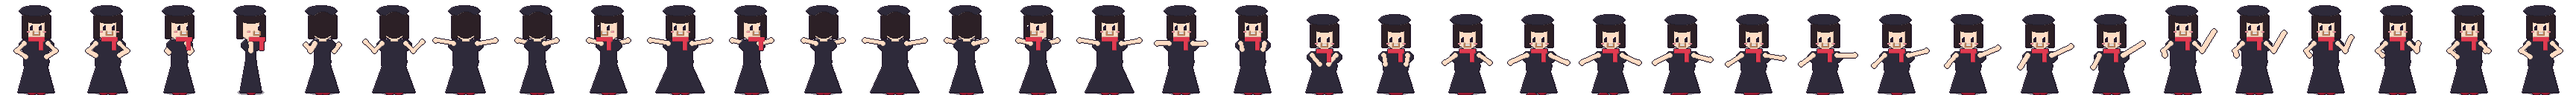
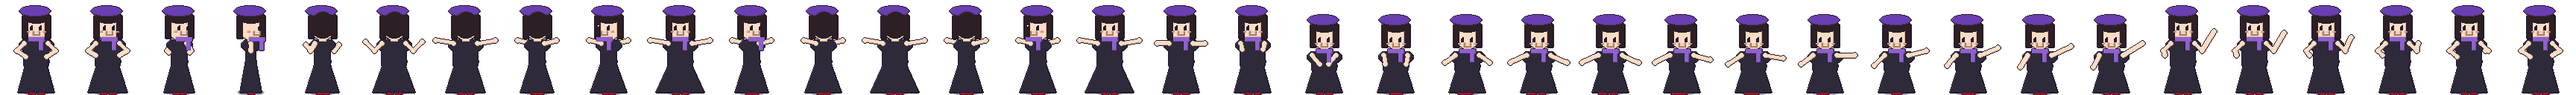
Dance Sisters v65: each Director in her own colours
The three Directors were all black with a red scarf, so Miri and Juliette
looked identical. The beret now takes the sister's dark shade and the
scarf her colour.

Claude-Session: https://claude.ai/code/session_01KjbiH1Gxo3FA48ifQDakKd

diff --git a/dance/sw.js b/dance/sw.js
@@ -1,6 +1,6 @@
 // Dance Sisters service worker: the app shell is cached on install; the pictures under art/ are cached as they are fetched
 // (cache first after that) and app.js fetches every one of them once (saveOffline), so the game plays with no connection. Bump CACHE together with APP_VERSION in app.js.
-const CACHE = 'dance-v64';
+const CACHE = 'dance-v65';
 const SHELL = ['./', 'index.html', 'app.js', 'style.css', 'manifest.webmanifest', 'dancers.json', 'art/font.json', 'art/font.png', 'art/font_w.png', 'icons/icon-192.png', 'icons/icon-512.png', 'icons/apple-touch-icon-180.png'];
 self.addEventListener('install', e => { e.waitUntil(caches.open(CACHE).then(c => Promise.all(SHELL.map(u => c.add(u).catch(() => {})))).then(() => self.skipWaiting())); });
 // on activation, anything the new cache is missing (a shell file whose install fetch failed on a poor connection) is copied

diff --git a/dance/app.js b/dance/app.js
@@ -4,7 +4,7 @@
    decision, 30 Oct 2026: the names are fixed in the game); a level is "<stage> <name>". Save in
    localStorage['dance.save']; nothing is sent anywhere. */
 'use strict';
-const APP_VERSION = '64';
+const APP_VERSION = '65';
 const ART = 'art/'; let ART_V = '';
 const NAMES = ['Lainey', 'Miri', 'Juliette'];   // youngest first
 let SPEC = null;

diff --git a/CLAUDE.md b/CLAUDE.md
@@ -622,7 +622,7 @@ The Merge Beasts engine with **dancers**, at **latin.musicalmagic.uk/dance/** (`
 wording and sprites swapped; same save shape in `localStorage['dance.save']`). **The chain is 36 stages × 3 sisters = 108
 levels (v36: the owner wants twelve characters in every room, so nine rooms × four stages; `sisters7.py`; `load` remaps a save from the 20-stage chain by stage name, `save.chainv` = 2)** (`dance/dancers.json`: stage, sister, stageName, sheet, frames, top, crawl; worlds by stage, four each: Nursery 0–3 (Baby, Tot, **Birthday** — party hat, striped top, a balloon; a bounce, a sway and claps, a twirl — Nursery), Dance school 4–7 (Leotard, Dance school, First tutu, Jazz),
 Ballet theatre 8–11 (En pointe, Swan, **Sugar Plum** — the Nutcracker fairy, lilac tutu dotted in her colour, a wand; hops on pointe, a port de bras, piqué turns — Prima), City stage 12–15 (Street, **Tap** — waistcoat, bowler, black tap shoes; shuffle-hop, soft-shoe sway, pivot and stamp — **Salsa** — ruffles, red heels, hoop earrings; the basic step, hip sway, the cross-body turn — Stage star), World tour 16–19 (World tour, **Bollywood** — orange choli, gold bangles, a flower; shoulder bounces and jumps, wrist circles and the head slide, a spin — Movie star, Royal gala), Academy 20–23 (Teacher, **Examiner** — grey suit, a clipboard; marks, a nod, a hop — **Judge** — sequinned jacket, the "10" paddle — **Graduate** — gown and mortarboard; a jump for joy, hand on heart, a wave; `bg_academy`: a hall with three portraits, a trophy cabinet, a red carpet), **Studio 24–27** (**Rehearsal** — leggings, leg warmers `warmers`, a water bottle; star jumps, stretches, a lunge — Choreographer, **Dance captain** — black tee with her star; counts and jumps, arm sweeps, turning to the line — **Coach** — tracksuit and cap; squats, stretches, claps; `bg_studio`: a mirror wall with the cast reflected, a barre, a whiteboard, a chair, a boombox, tape marks), **Stage door 28–31** (**Understudy** — rehearsal greys, the script; Director, **Leading lady** — feather boa `collar: 'boa'`, long gloves; a kick, the boa sweep, a spin — **Producer** — the suit, a phone; `bg_stagedoor`: backstage bricks, the star door and its sign, a lamp, a costume rail, a flight case, a rope), **Hall of fame 32–35** (Icon, **Statue** — gold from head to toe, `skin_override` / `hairc_override`; a held pose and a bounce, a slow shimmer, a slow turn — **Superstar** — gold fringe and gloves, a boa; a leap, the sweep, a spin — Legend; new hats `partyhat` / `bowler` / `mortar`, props `wand` / `clipboard` / `paddle` / `bottle` / `script` / `phone`; `bg_hall`: spotlights, three framed stars in the sisters' colours, a chandelier, a marble plinth with a gold star, velvet ropes, a red carpet; `scratchpad/dancers/rooms2.py`) — **`load` migrates saves when rooms are split (v35)**: every dancer moves to the room of her stage, a bag that pointed into a later room moves there (clamped inside each room's levels), and the open rooms follow what has been made; stages: Baby, Tot, Nursery, Leotard, Dance school, First tutu,
-Jazz, En pointe, Swan, Prima, Street, Stage star, World tour, Movie star (dark bodice, long gown, flashbulbs), Royal gala (pale gown, tiara, a waltz), Teacher (bun, cardigan, black skirt, cane), **Choreographer** (all black, headset, shoes in her colour: marking the counts / arm cues / a spin to face the cast), **Director** (dark coat, red scarf: the bow from the wings), **Icon** (her colour head to toe, a silver streak: her earliest move perfected — Lainey's toddler jump as a tuck jump, Miri's sway as swan arms, Juliette's wobbly twirl as a clean double pirouette), Legend; `DESC` one line each). **A new game starts with `chainv: 2` (v60)**: the v36 old-chain conversion in `load` ran on every fresh save too (no `chainv`), and it maps a bag at a room's first level by *old* stage name — the Dance school bag went from Leotard Lainey (12) to Dance school Lainey (15), so the three Leotard dancers could never appear (the owner's daughter saw "the game has skipped 3 characters"); `load` also repairs any save whose bag sits above an unmade level of its room by putting the bag back to the lowest unmade level (a legitimately upgraded bag has every level below it made), tested by `scratchpad/dance-skip.js`. **The economy (31 Oct 2026, after the owner's daughters finished the first version in an afternoon)**: a better bag costs `crateUpCost` = 300 × 1.38^L (1.45 until v36; 108 levels) and **must be earned — the dancer three levels above the bag has to have been made by merging first** (`GATE` = 3, the owner's rule on 31 Oct 2026 after one level proved too easy and two had looked like a bug; near the end the gate is the last dancer; `crateGate` / `crateEarned`, `save.seen`; the shop row says "Locked: make … by merging first" and the button reads 🔒 Locked instead of a price), an Invite is `priceOf` = 40 × 1.35^L. **The Spirit of Dance (v46)**: level 108, stage 36, the one level above Legend Juliette — **two Legend Juliettes merge into it** (the owner's ask): a soft cloud with hints of the three sisters' colours (teal left, pink top, purple right, three sparkles in their colours, no face; `scratchpad/dancers/spirit.py`, 40 frames, `art/s37_1.png`, drawn at 48 × 64 and doubled; `sisters7.py` appends it on every rebuild) — **the owner chose this over an energy-nebula version (v48–v50, kept in `spirit_nebula.py`): "go back to this version, it was better"**, `sister: -1` in `dancers.json`, `spirit: true` in `CHAIN`, named "Spirit of / Dance" above the cloud (`lvHTML`), fanfare kicker "✨ THE SPIRIT OF DANCE ✨", `save.spirit` the first time; **it has a level (v47)**: `b.sl` 1–100 (`SPIRIT_MAX`), shown in the middle of the cloud in the dark pixel font (`.sn`), a Spirit absorbs a Legend Juliette (+1, dragged either way) or another Spirit (the levels add; `canMerge`), it is moved like any dancer, its Dancepedia line is "The spirit grows." (`DESC[36]`), the cloud is semi-transparent (`.beast.spirit .spr` opacity .8) and **grows at 10 / 30 / 50 / 75** (`spiritScale` .65 → .8 → .95 → 1.1 → 1.25, `--ss`), earns its level × a dancer's rate (`earns`); **level 100 wins the game** (`won()`, once, `save.won`: the owner's words — "Congratulations … The girls have gone beyond being physical dancers and have become the universal spirit of dance itself …" — with RESTART ON HARD MODE and Keep playing; the Hall offers it again once won). **Hard mode** (`hardMode`, `save.hard` counts restarts): everything is undone — dancers, coins, bags, upgrades, Dancepedia, stars, encores — and `RATE` is halved per hard restart; a `#hardTag` after the rate in the top bar; it lives in the Hall of fame (`stages: [32, 36]`); bags never bring it (`canUp` stops at `CHAIN.length - 2`); two Spirits cannot merge (the Hall opens) and a Spirit or a Legend Juliette can be retired (`isFinal` = `LEGEND` or `SPIRIT`, both set in `buildChain`). **The ending** (`discover` on `LEGEND` = Legend Juliette, not the last level → `finale`, once, `save.finished`; the trio is `CHAIN.slice(LEGEND - 2, LEGEND + 1)`): a curtain-call overlay (`.finale`: red curtains part, the three Legends dancing, a pixel trophy `art/trophy.png`, confetti, "You did it!"), then the **Hall of Fame** (`hall`, the 🏆 button in the top bar, shown once finished): two Spirits cannot merge (a merge of two opens the Hall instead) — **Retire a Legend** removes a final-level dancer from the stage for a ⭐ (`save.stars`) and two hours' income. **Encore was removed in v61** (the owner: the Spirit ending replaced it); `RATE` still honours `save.encore` for the few saves that used it. **Start the game again (v62, v64)**: a link at the bottom of the Dancepedia (always reachable — the owner looked for it there) and of the Hall of Fame (`NEW_GAME_LINK`, `newGame()`) wipes the save to a fresh one after two confirms (no bonus, no penalty; `save.hard` is dropped too). The Home button (the house in the top bar linking to the games list) was dropped in v62 at the owner's request. **Costumes and moves were audited against real dance conventions (v45, 31 Oct 2026; `scratchpad/dancers/audit_current.md` + `research_ballet.md` / `research_styles.md` / `research_roles.md`: the RAD uniform guide, Odette / Sugar Plum costume guides, tap / jazz / salsa / flamenco / fan dance / Bollywood conventions)** and the mismatches fixed in `sisters7.py`: pink tights and shoes in every ballet stage (never white); En pointe is class wear (leotard, little skirt, pink pointe shoes with `ribbons`, bun — no tutu); Swan, Sugar Plum and Prima wear the classical `tutu` (the romantic `tutu_big` is Giselle), Odette all white with a tiara and only a pale sash in her colour, the Sugar Plum Fairy and the Prima a tiara too (`prop` may be a tuple: two props at once); the hats were the wrong way round — the top hat is tap / vaudeville, the bowler is Fosse jazz — so **Jazz** is a class (no hat, tan jazz shoes, hair back) and **Tap** has the top hat, a black waistcoat (`pattern: 'vest'`), a red bow tie (`collar: 'bowtie'`) and black tap shoes; **Salsa** is a plain fringed dress with gold heels and hoop `earrings` (dots + tiers are the flamenco dress, which went to World tour Lainey with the rose in a bun and red heels); World tour Miri dances barefoot (`shoes: 'bare'`), Juliette's fan dance is Chinese (long dress, water sleeves `sleeves: 'wide'`, gold sash, flower in an updo); **Bollywood** has real `gloves: 'bangles'` (gold bands on bare arms) and jhumka earrings; the **Teacher** wears class wear (fitted top, black wrap skirt, pink tights, flats — the cane and white collar were a schoolmistress); the **Choreographer** has her hood down and no headset (the stage manager's); the **Leading lady** takes the curtain call with a bouquet and the boa stays the Superstar's. Moves changed: Salsa Lainey never leaves the floor (hip bounce on the pause, a kick shine); Tap Miri does flap-flap-ball-change travelling, Juliette a shuffle-ball-change into a paddle turn and a stamp; flamenco Lainey is grounded (palmas and a floreo in place of the jump); Royal gala Lainey rises and falls in the waltz instead of jumping; Choreographer Lainey marks the counts small then one full jump; Examiner Lainey rises tall, nods and ticks (examiners never show approval); Leading lady Miri bows with the bouquet and blows a kiss; Statue Lainey holds, then one slow rise onto demi-pointe; Birthday Juliette twirls and bobs (the jump was Lainey's). Pointe-shoe `ribbons` are crossed round the ankle along the shin (from the knee or hip to the foot, so a raised leg keeps them) in a darker pink than the tights (v52: they used to stand straight up from the foot in the tights' own pink, so floated off a lifted leg and vanished). **Costume audit v53 (the owner: "fix all")**: ballet and pointe shoes are `pink` (deeper than the `pinklight` tights, which had hidden them), Tap shoes `'tap'` (black with a silver plate and shine), the Understudy's flats in her colour, the Swan's sash in her full colour; `warmers` run along the shin like the ribbons (`dress_foot`); from behind the star, earrings, streak, rose, flower and bow stay (mirrored); a real kick under a long / gown / dress / ruffle skirt — the foot above `base − ll × .5` and clear of the hem by 3 (v56: the first rule, `base − ll × .45` alone, put a toddler's black shoe on her dress in every Nursery jump, since the dress reaches below her feet) — is redrawn on top so the skirt parts round it (`legs_`); the coin belt narrows with the turn (`SW`); a prop in the far hand is drawn behind the body (`PROP_HAND`, `draw_prop` at module level, called after the far arm and again after the head for the near hand); hair lags the rise and fall (`hlag`, the hanging parts of straight / pony / curly / wavy / bunches) and the fringe, hair and balloon string sway with travel and lean (`sway`), both set per frame in `sisters7.py` like `tdy`. **Animation audit v54 (the owner: skirts "sit 2-dimensionally on top", clothes "move independently"; "fix all")**: the skirt's waist stays on the hips and only the hem lags (`hb` = `tdy` on the bottom points; the old whole-skirt lag made the skirt slide over the bodice); a `lean` tilts the spine from the hips (`la_`, the shoulders drop by `th(1 − cos)`) and tips the head (`s.tilt`: one eye higher than the other, the head offset along the tilt); a `bend` folds forward (`s.bow`: the head comes down in front of the chest by `bend × 1.35`, the features sit lower on the face); a tutu is a tilting disc (`disc`, `tilt` from a leg raised above `hip + ll × .3`); a raised knee lifts the hem of a short skirt or dress on its side (`lift_l / lift_r`); a turn flares the hem (`spin` = 14 × |Δturn| per frame from `sisters7.py`, `FL`), including the fringe and the ruffle tiers; dots and stripes shear with the torso (`shear(yy)`); a soft ground shadow under every figure, smaller and fainter with `lift` (`ground`, composited after the outline pass; `fig5` passes scale 2); held props continue the forearm's line (`draw_prop(…, d)`, `arm_dir` from `draw_arm`: wand, paddle, mic, fan, bouquet, bottle, clapper, phone turn with the arm; the balloon, clipboard and script keep their own orientation). **Frame-by-frame review (v57–v59, after the owner asked "why was that not picked up? there must be many more")**: `scratchpad/dancers/grids2/` holds a grid of every frame of every stage (made by the script in the session; 37 images), four reviewer agents went through every frame twice against a checklist (`review_a–d.md`, `review2_a–d.md`), and the root causes were fixed in `fig3.py` / `sisters7.py`: a small dancer's `sink` is capped at `ll × .55` and knees never go below the floor; short skirts and dresses stop above the shoes (`base − 3`); a hat's headroom caps the jump (`HEADROOM`, `room`); knees stay inside a long skirt; the hem lift from a knee is at most 3 and the flare at most 4; the loop seam (turn 2 → 0) is not a spin; a hand raised above the shoulders is drawn after the head (not lost in the hair), except from behind; near-hand props go behind the head in a bow, a turn, or when held in front of the face; a bowed head stops at the chest; props that would leave the picture are foreshortened along the arm (`k` in `draw_prop`); the blush and the eyes stay on the face in profile; the waistcoat has a back and the bow tie is not drawn on the nape; `cap=` is a cap over the sister's own hair (the Coach gave everyone Miri's curls); `KICK` reaches hip height; a baby's arms stay on the floor until she is nearly sitting; the Jazz skirt is `D(i)` (black tights on a black skirt vanished), the Director's shoes `red2` and the Producer's `grey` (black on a black hem). Known and accepted: hands meeting above the head read as a bar; a split leap's feet at the gown's hem corners; arms thin to nothing in a pure profile; a raised leg behind a tutu in a penché shows only its shoe; a pose that reaches the picture's side edge touches it. **Review again after any change to the figure code: rebuild, regenerate the grids, and look at every frame of the stages touched — a few contact sheets are not a check.** **The sisters' names are fixed in `NAMES` in `dance/app.js`** (youngest first) — the
+Jazz, En pointe, Swan, Prima, Street, Stage star, World tour, Movie star (dark bodice, long gown, flashbulbs), Royal gala (pale gown, tiara, a waltz), Teacher (bun, cardigan, black skirt, cane), **Choreographer** (all black, headset, shoes in her colour: marking the counts / arm cues / a spin to face the cast), **Director** (black coat, the beret in her dark shade and the scarf in her colour — `hatc` / `patc` on the figure, v65, after the owner found Miri and Juliette identical in all black with a red scarf: the bow from the wings), **Icon** (her colour head to toe, a silver streak: her earliest move perfected — Lainey's toddler jump as a tuck jump, Miri's sway as swan arms, Juliette's wobbly twirl as a clean double pirouette), Legend; `DESC` one line each). **A new game starts with `chainv: 2` (v60)**: the v36 old-chain conversion in `load` ran on every fresh save too (no `chainv`), and it maps a bag at a room's first level by *old* stage name — the Dance school bag went from Leotard Lainey (12) to Dance school Lainey (15), so the three Leotard dancers could never appear (the owner's daughter saw "the game has skipped 3 characters"); `load` also repairs any save whose bag sits above an unmade level of its room by putting the bag back to the lowest unmade level (a legitimately upgraded bag has every level below it made), tested by `scratchpad/dance-skip.js`. **The economy (31 Oct 2026, after the owner's daughters finished the first version in an afternoon)**: a better bag costs `crateUpCost` = 300 × 1.38^L (1.45 until v36; 108 levels) and **must be earned — the dancer three levels above the bag has to have been made by merging first** (`GATE` = 3, the owner's rule on 31 Oct 2026 after one level proved too easy and two had looked like a bug; near the end the gate is the last dancer; `crateGate` / `crateEarned`, `save.seen`; the shop row says "Locked: make … by merging first" and the button reads 🔒 Locked instead of a price), an Invite is `priceOf` = 40 × 1.35^L. **The Spirit of Dance (v46)**: level 108, stage 36, the one level above Legend Juliette — **two Legend Juliettes merge into it** (the owner's ask): a soft cloud with hints of the three sisters' colours (teal left, pink top, purple right, three sparkles in their colours, no face; `scratchpad/dancers/spirit.py`, 40 frames, `art/s37_1.png`, drawn at 48 × 64 and doubled; `sisters7.py` appends it on every rebuild) — **the owner chose this over an energy-nebula version (v48–v50, kept in `spirit_nebula.py`): "go back to this version, it was better"**, `sister: -1` in `dancers.json`, `spirit: true` in `CHAIN`, named "Spirit of / Dance" above the cloud (`lvHTML`), fanfare kicker "✨ THE SPIRIT OF DANCE ✨", `save.spirit` the first time; **it has a level (v47)**: `b.sl` 1–100 (`SPIRIT_MAX`), shown in the middle of the cloud in the dark pixel font (`.sn`), a Spirit absorbs a Legend Juliette (+1, dragged either way) or another Spirit (the levels add; `canMerge`), it is moved like any dancer, its Dancepedia line is "The spirit grows." (`DESC[36]`), the cloud is semi-transparent (`.beast.spirit .spr` opacity .8) and **grows at 10 / 30 / 50 / 75** (`spiritScale` .65 → .8 → .95 → 1.1 → 1.25, `--ss`), earns its level × a dancer's rate (`earns`); **level 100 wins the game** (`won()`, once, `save.won`: the owner's words — "Congratulations … The girls have gone beyond being physical dancers and have become the universal spirit of dance itself …" — with RESTART ON HARD MODE and Keep playing; the Hall offers it again once won). **Hard mode** (`hardMode`, `save.hard` counts restarts): everything is undone — dancers, coins, bags, upgrades, Dancepedia, stars, encores — and `RATE` is halved per hard restart; a `#hardTag` after the rate in the top bar; it lives in the Hall of fame (`stages: [32, 36]`); bags never bring it (`canUp` stops at `CHAIN.length - 2`); two Spirits cannot merge (the Hall opens) and a Spirit or a Legend Juliette can be retired (`isFinal` = `LEGEND` or `SPIRIT`, both set in `buildChain`). **The ending** (`discover` on `LEGEND` = Legend Juliette, not the last level → `finale`, once, `save.finished`; the trio is `CHAIN.slice(LEGEND - 2, LEGEND + 1)`): a curtain-call overlay (`.finale`: red curtains part, the three Legends dancing, a pixel trophy `art/trophy.png`, confetti, "You did it!"), then the **Hall of Fame** (`hall`, the 🏆 button in the top bar, shown once finished): two Spirits cannot merge (a merge of two opens the Hall instead) — **Retire a Legend** removes a final-level dancer from the stage for a ⭐ (`save.stars`) and two hours' income. **Encore was removed in v61** (the owner: the Spirit ending replaced it); `RATE` still honours `save.encore` for the few saves that used it. **Start the game again (v62, v64)**: a link at the bottom of the Dancepedia (always reachable — the owner looked for it there) and of the Hall of Fame (`NEW_GAME_LINK`, `newGame()`) wipes the save to a fresh one after two confirms (no bonus, no penalty; `save.hard` is dropped too). The Home button (the house in the top bar linking to the games list) was dropped in v62 at the owner's request. **Costumes and moves were audited against real dance conventions (v45, 31 Oct 2026; `scratchpad/dancers/audit_current.md` + `research_ballet.md` / `research_styles.md` / `research_roles.md`: the RAD uniform guide, Odette / Sugar Plum costume guides, tap / jazz / salsa / flamenco / fan dance / Bollywood conventions)** and the mismatches fixed in `sisters7.py`: pink tights and shoes in every ballet stage (never white); En pointe is class wear (leotard, little skirt, pink pointe shoes with `ribbons`, bun — no tutu); Swan, Sugar Plum and Prima wear the classical `tutu` (the romantic `tutu_big` is Giselle), Odette all white with a tiara and only a pale sash in her colour, the Sugar Plum Fairy and the Prima a tiara too (`prop` may be a tuple: two props at once); the hats were the wrong way round — the top hat is tap / vaudeville, the bowler is Fosse jazz — so **Jazz** is a class (no hat, tan jazz shoes, hair back) and **Tap** has the top hat, a black waistcoat (`pattern: 'vest'`), a red bow tie (`collar: 'bowtie'`) and black tap shoes; **Salsa** is a plain fringed dress with gold heels and hoop `earrings` (dots + tiers are the flamenco dress, which went to World tour Lainey with the rose in a bun and red heels); World tour Miri dances barefoot (`shoes: 'bare'`), Juliette's fan dance is Chinese (long dress, water sleeves `sleeves: 'wide'`, gold sash, flower in an updo); **Bollywood** has real `gloves: 'bangles'` (gold bands on bare arms) and jhumka earrings; the **Teacher** wears class wear (fitted top, black wrap skirt, pink tights, flats — the cane and white collar were a schoolmistress); the **Choreographer** has her hood down and no headset (the stage manager's); the **Leading lady** takes the curtain call with a bouquet and the boa stays the Superstar's. Moves changed: Salsa Lainey never leaves the floor (hip bounce on the pause, a kick shine); Tap Miri does flap-flap-ball-change travelling, Juliette a shuffle-ball-change into a paddle turn and a stamp; flamenco Lainey is grounded (palmas and a floreo in place of the jump); Royal gala Lainey rises and falls in the waltz instead of jumping; Choreographer Lainey marks the counts small then one full jump; Examiner Lainey rises tall, nods and ticks (examiners never show approval); Leading lady Miri bows with the bouquet and blows a kiss; Statue Lainey holds, then one slow rise onto demi-pointe; Birthday Juliette twirls and bobs (the jump was Lainey's). Pointe-shoe `ribbons` are crossed round the ankle along the shin (from the knee or hip to the foot, so a raised leg keeps them) in a darker pink than the tights (v52: they used to stand straight up from the foot in the tights' own pink, so floated off a lifted leg and vanished). **Costume audit v53 (the owner: "fix all")**: ballet and pointe shoes are `pink` (deeper than the `pinklight` tights, which had hidden them), Tap shoes `'tap'` (black with a silver plate and shine), the Understudy's flats in her colour, the Swan's sash in her full colour; `warmers` run along the shin like the ribbons (`dress_foot`); from behind the star, earrings, streak, rose, flower and bow stay (mirrored); a real kick under a long / gown / dress / ruffle skirt — the foot above `base − ll × .5` and clear of the hem by 3 (v56: the first rule, `base − ll × .45` alone, put a toddler's black shoe on her dress in every Nursery jump, since the dress reaches below her feet) — is redrawn on top so the skirt parts round it (`legs_`); the coin belt narrows with the turn (`SW`); a prop in the far hand is drawn behind the body (`PROP_HAND`, `draw_prop` at module level, called after the far arm and again after the head for the near hand); hair lags the rise and fall (`hlag`, the hanging parts of straight / pony / curly / wavy / bunches) and the fringe, hair and balloon string sway with travel and lean (`sway`), both set per frame in `sisters7.py` like `tdy`. **Animation audit v54 (the owner: skirts "sit 2-dimensionally on top", clothes "move independently"; "fix all")**: the skirt's waist stays on the hips and only the hem lags (`hb` = `tdy` on the bottom points; the old whole-skirt lag made the skirt slide over the bodice); a `lean` tilts the spine from the hips (`la_`, the shoulders drop by `th(1 − cos)`) and tips the head (`s.tilt`: one eye higher than the other, the head offset along the tilt); a `bend` folds forward (`s.bow`: the head comes down in front of the chest by `bend × 1.35`, the features sit lower on the face); a tutu is a tilting disc (`disc`, `tilt` from a leg raised above `hip + ll × .3`); a raised knee lifts the hem of a short skirt or dress on its side (`lift_l / lift_r`); a turn flares the hem (`spin` = 14 × |Δturn| per frame from `sisters7.py`, `FL`), including the fringe and the ruffle tiers; dots and stripes shear with the torso (`shear(yy)`); a soft ground shadow under every figure, smaller and fainter with `lift` (`ground`, composited after the outline pass; `fig5` passes scale 2); held props continue the forearm's line (`draw_prop(…, d)`, `arm_dir` from `draw_arm`: wand, paddle, mic, fan, bouquet, bottle, clapper, phone turn with the arm; the balloon, clipboard and script keep their own orientation). **Frame-by-frame review (v57–v59, after the owner asked "why was that not picked up? there must be many more")**: `scratchpad/dancers/grids2/` holds a grid of every frame of every stage (made by the script in the session; 37 images), four reviewer agents went through every frame twice against a checklist (`review_a–d.md`, `review2_a–d.md`), and the root causes were fixed in `fig3.py` / `sisters7.py`: a small dancer's `sink` is capped at `ll × .55` and knees never go below the floor; short skirts and dresses stop above the shoes (`base − 3`); a hat's headroom caps the jump (`HEADROOM`, `room`); knees stay inside a long skirt; the hem lift from a knee is at most 3 and the flare at most 4; the loop seam (turn 2 → 0) is not a spin; a hand raised above the shoulders is drawn after the head (not lost in the hair), except from behind; near-hand props go behind the head in a bow, a turn, or when held in front of the face; a bowed head stops at the chest; props that would leave the picture are foreshortened along the arm (`k` in `draw_prop`); the blush and the eyes stay on the face in profile; the waistcoat has a back and the bow tie is not drawn on the nape; `cap=` is a cap over the sister's own hair (the Coach gave everyone Miri's curls); `KICK` reaches hip height; a baby's arms stay on the floor until she is nearly sitting; the Jazz skirt is `D(i)` (black tights on a black skirt vanished), the Director's shoes `red2` and the Producer's `grey` (black on a black hem). Known and accepted: hands meeting above the head read as a bar; a split leap's feet at the gown's hem corners; arms thin to nothing in a pure profile; a raised leg behind a tutu in a penché shows only its shoe; a pose that reaches the picture's side edge touches it. **Review again after any change to the figure code: rebuild, regenerate the grids, and look at every frame of the stages touched — a few contact sheets are not a check.** **The sisters' names are fixed in `NAMES` in `dance/app.js`** (youngest first) — the
 owner's explicit decision on 30 Oct 2026, reaffirmed after the risk of a public repo was put to him; this is the one
 exception to the no-names rule above and it covers the three first names only (no surnames, ages, school or photos — the
 photos he sent to set the looks are not in the repo and must never be); a level is `nameOf(c)` = "<stage> <name>". **The art is the cute 48 × 64 chibi style the owner's daughters loved (v24), chosen again on 31 Oct 2026 after a higher-resolution, likeness-driven redraw (fig4 / sisters4, hand-pixelled heads, kept in the session scratchpad with the research and the plan) was rejected: "not recognisable, and we've lost the cute look"** — at a 30-px face a likeness is carried by hair, colour, size and movement, not by drawing the face. The looks, youngest first: Lainey dark-brown wavy hair pulled back for class (bunches with blue bows at Nursery), simple smile; Miri a mass of dark curls with a centre parting (`curly`), a small grin; Juliette long straight dark hair, tallest, a small grin. **Each sister has a colour family for every costume** (`COL` in `sisters5.py`: Lainey teal, Miri pink, Juliette purple — main / light / dark; the Swan tutu stays white and the Legend gown gold, with the sister's colour on the bodice or panel), and **every stage has its own combination of silhouette, tone, pattern or second colour, legwear, hair or hat and prop** (v32, after the girls found many too similar; `STAGES` in `sisters6.py`; `fig3` options `pattern` dots / stripes / star / sash, `patc`, `gloves`, `collar`, hats and hair `tophat` / `beret` / `hood` / `updo` / `pony` / `bunches`, props `flowers` / `balloon` / `clapper`): Baby nappy; Tot dotted top + tiny tutu, hair down; Nursery party dress with a white collar, a balloon, bunches / curls / ponytail; Leotard pale leotard + white tights; Dance school bun, black practice skirt, pink tights; First tutu dark bodice with a gold sash, big pale tutu, bow / tiara / flower; Jazz striped top, black skirt and tights, a top hat; En pointe white leotard, her tutu, ribbons, bun; Swan all white with her sash and a tiara; Prima dark bodice, her tutu, pink tights, a bouquet, hair up high; Street tee, jeans, trainers, cap / ponytail; Stage star black sequin top, her fringe, gold shoes, mic / star; World tour flamenco ruffles / coin skirt / fan gown; Movie star gold top, her long gown, long gloves, a clapperboard, updo; Royal gala pale gown, white gloves, red sash, tiara; Teacher cardigan with a white collar, black wrap skirt, cane, bun; Choreographer her hoodie, black joggers, headset; Director black coat, red scarf, black beret; Icon her colour head to toe with a white star and the silver streak; Legend gold head to toe with her panel, gold gloves, a star above her — then the stages above. **Art**: 16-bit-style pixel sprites, **the cute 48-unit chibi design drawn at 96 × 128 (v31)** — `fig5.py` runs `fig3`'s body through the doubling canvas (`S2`, finer 1-px outline and shading, the big head and simple dark eyes kept; `facekind` small / round / tall gives Lainey smaller cheerful eyes and Juliette taller ones) — drawn by the session scratchpad generators `scratchpad/dancers/fig2.py` (the palette and the first figure) and **`sisters6.py` (= `sisters5.py` on `figure5`, with secondary motion: the skirt `tdy` and the head lag the body's rise and fall by a frame) + `fig3.py` / `fig5.py`** (`choreography.md`, `plan.md`, `brief.md` and the three `research_*.md` beside them): **each sister has a movement personality that holds through every stage, so she is known without her name — Lainey jumps (lifts, squats, leaps), Miri flows (arms, balances, sways, head tilts), Juliette turns (spins, footwork, clean finishes)** — and **the moves climb a real ladder** (toddler bounce / sway / tiptoe / gallop → primary-class pliés, tendus, sautés, port de bras → arabesque, échappé, pas de chat, développé, a single pirouette → jazz kick-ball-change, isolations, jazz square + pivot → pointe échappés, bourrée, piqué turns → swan sissonnes, swan arms + penché, bourrée en tournant → grand jeté, attitude promenade, fouettés → running man, body wave, two-step + freeze → kick line + split leap, mic turn, chaînés → flamenco / belly dance / fan dance → red carpet, a waltz, teaching, choreographing, the director's bow, the icon's perfected first move → grand jeté manège, penché, fouettés, all into a révérence); the Baby crawls (Lainey fast then bum-bounces; Miri sits rocking and clapping with a short crawl; Juliette crawls and pushes up to kneel). Keyframes are eased to 32 frames (40 for Baby, Prima, Legend). `fig3.figure3` takes a continuous `pose` — limb endpoints, optional knees `lk/rk`, elbows `le/re`, `sink` (hips drop for a plié), lean, bend, lift, `pointe`, `jazz` hands, a `turn` that **rotates the body in depth (v37, after the owner saw World tour Juliette "split in half" by the old squash-and-mirror spin): `vc`/`vs` = cos/sin of the angle; every sideways offset (feet, knees, hands, elbows, shoulders) is scaled by cos, the torso and skirts narrow to no less than 42 %, a tutu stays a disc, the far arm is drawn behind the body, patterns and the gown panel only show from the front, and `draw_head` slides the features round the head (one eye in profile) and covers the face with hair from behind (`s.view`)**, and for babies `tilt` 0 crawl → 1 sit, `knees` 1 kneel, `stride`; `loop(keys, n)` eases between weighted keyframes, `turn` always forwards — → `dance/art/sNN_G.png` horizontal sprite sheets + `dancers.json`; the older `sisters.py` / `fig2.figure` drew the first 6–8 still poses); `spriteHTML(c, scale)` shows a sheet as a
